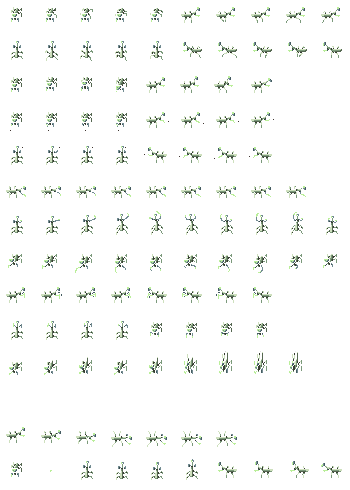
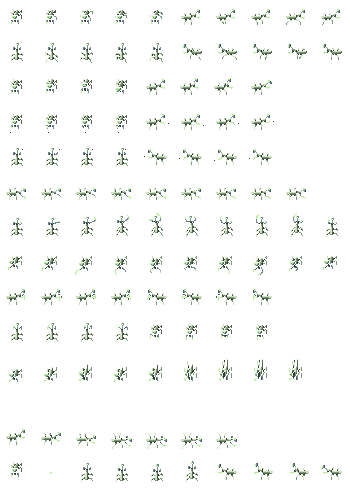
Boarding drones rarities; sprite fix for crystal/rock/mantis

diff --git a/README_new.md b/README_new.md
@@ -77,8 +77,8 @@
         <li>Hull Repair Drone: Cost from 85 to 40. Power requirement from 2 to 1. Drone Recovery Arm no longer retrieves it if you jump while it is repairing.</li>
         <li>System Repair Drone: Cost from 30 to 20.</li>
         <li>Anti-Personnel Drone: Power requirement from 2 to 1.</li>
-        <li>Boarding Drone: Cost from 70 to 30. 1 drone part will be retrieved at the end of combat if it is not destroyed. (todo BOARDER_RECOVERY for all ships. TODO 2 test if it retrieves at the end of fight (correct) or when jumping (wrong))</li>
-        <li>Ion Intruder Drone: Cost from 65 to 40. 1 drone part will be retrieved at the end of combat if it is not destroyed.</li>
+        <li>Boarding Drone: Rarity from 4 to 2, cost from 70 to 30. 1 drone part will be retrieved at the end of combat if it is not destroyed. (todo BOARDER_RECOVERY for all ships. TODO 2 test if it retrieves at the end of fight (correct) or when jumping (wrong))</li>
+        <li>Ion Intruder Drone: Rarity from 4 to 2, cost from 65 to 40. 1 drone part will be retrieved at the end of combat if it is not destroyed.</li>
     </ol>
     <li>AUGMENTS:</li>
     <ol>

diff --git a/README.md b/README.md
@@ -106,11 +106,11 @@ Mod order:
     <li>Ship Upgrade Menu: Fixed misaligned Accept button base.</li>
     <li>Shifted misaligned crew sprites:</li>
     <ol>
-        <li>Crystal: 1 left, 2 up (except clone sprite: 1 left)</li>
+        <li>Crystal: 1 left (except teleport sprites: 1 left, 5 down)</li>
         <li>Engi: 1 left, 1 up</li>
         <li>Lanius: 1 right, 2 up (except clone sprite: 1 left, 2 up)</li>
-        <li>Mantis: 1 left, 2 up</li>
-        <li>Rock: 1 left, 3 up (except clone sprite: 1 left, 1 up)</li>
+        <li>Mantis: 1 left (except clone sprite: 1 left, 2 up; and teleport sprites: 1 left, 5 down)</li>
+        <li>Rock: 1 left, 1 up (except teleport sprites: 1 left, 3 down)</li>
         <li>Slug: 1 right</li>
     </ol>
     <li>Shifted misaligned shields vertically (more positive = more down) (technically has slight gameplay impact):</li>
